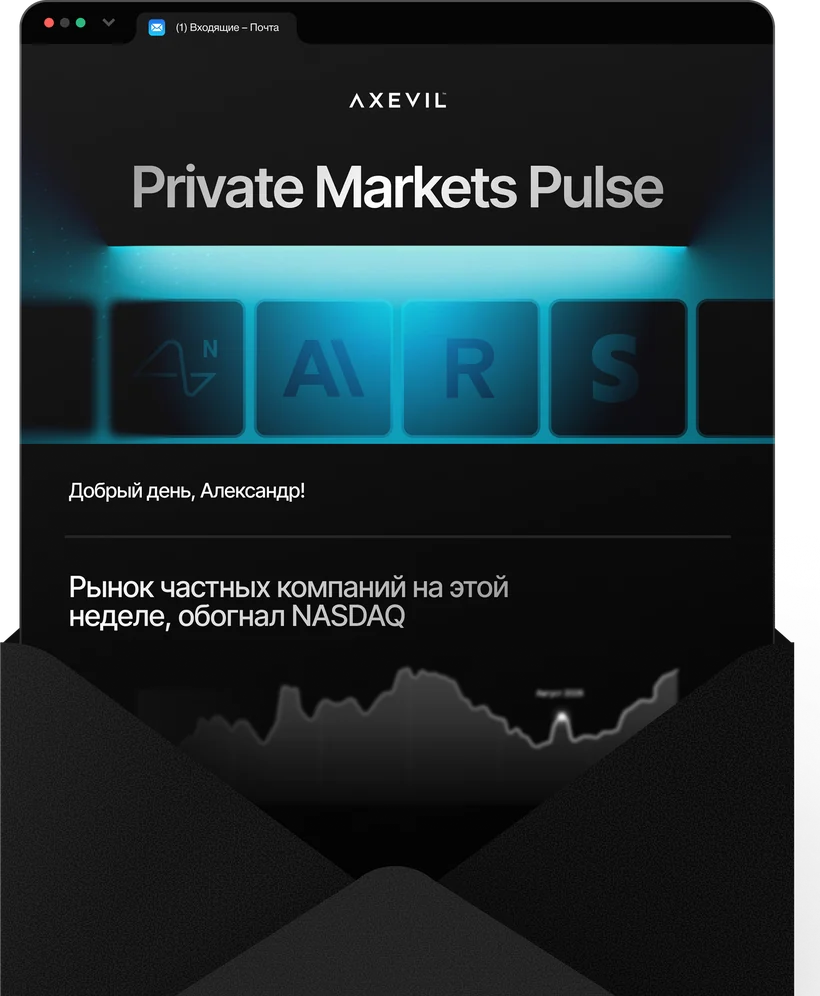
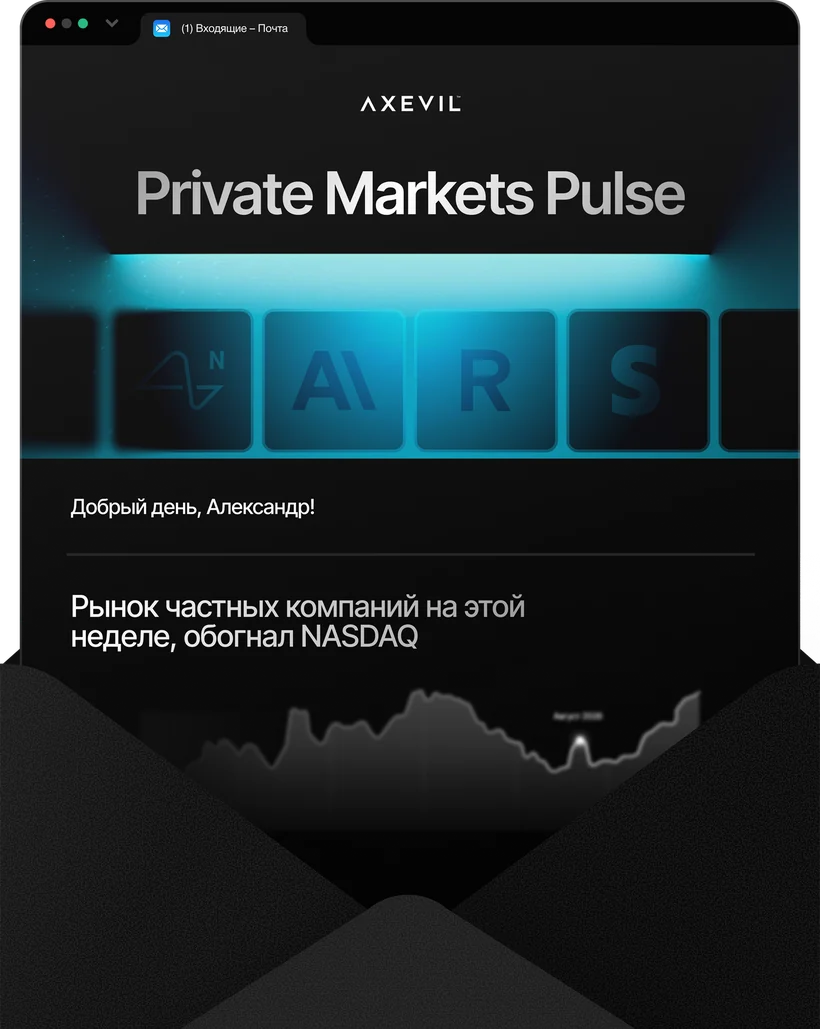
fix(axevil-newsletter): четыре правки по мобильной вёрстке
Правки Татьяны 2026-08-21.

1. Воздух под шапкой в первом экране. Было фиксированные 1.25rem, бейдж
   прилипал к меню. Отступ привязан к высоте экрана — тут сталкиваются два
   требования: нужен воздух и держится «первый экран без прокрутки» с 23 июля.
   На обычном телефоне выходит 35 px и форма кончается на 570 из 844; на
   320×568 ужимается до 24 px и форма укладывается в 566. Фиксированные 40 px
   на 320×568 вылезали за сгиб на 15 px.

2. Иллюстрация письма встала по центру. Мобильная картинка обрезалась по любой
   ненулевой альфе, а справа от окна в исходнике идёт слабое свечение шириной
   75 px, слева его нет — окно вставало левее центра экрана на 11 px. Теперь
   обрезка по видимому содержимому (альфа > 128), поля 16/16.

3. Иконки в «Кому полезен» вернулись в центр. Выравнивание сетки стояло инлайном
   и не знало брейкпоинтов: на телефоне карточка — обычный flex-столбец, там
   align-items управляет горизонталью, и `start` перебивал класс items-center.
   Текст спасал свой w-full, а иконка его не имеет — уезжала к левому краю на
   111 px. Свойства сетки вынесены в классы с префиксом sm:.
   Заодно иконки перестали плющиться: файлы не квадратные (248×219, 200×213,
   194×211), а размер задавался жёстким квадратом. Теперь задаётся высота.

4. Столбцы в «Карте заявок» разлиплись. Схема на телефоне сжимается до 140 px,
   justify-between нечего раздавать, и шесть полос по 18 px вставали вплотную —
   читались одним пятном. Добавлен минимальный зазор 6 px.
[…]

diff --git a/axevil-newsletter/src/pages/nl-sections/NLHero.tsx b/axevil-newsletter/src/pages/nl-sections/NLHero.tsx
@@ -96,8 +96,10 @@ const FADE = 'linear-gradient(to bottom, rgba(0,0,0,0) 0%, rgba(0,0,0,0.30) 45%,
  * Фон — вертикальный кусок того же точечного полотна: x 900..2400 из 3024. Правее в
  * исходнике яркий «вихрь», под текстом он бы мешал читать; левее точки почти гаснут.
  *
- * Иллюстрация — тот же мокап почтового клиента, соотношение 0.868, то есть портретное:
- * во всю ширину телефона он встаёт без обрезки. Конверт внизу срезан краем самой
+ * Иллюстрация — тот же мокап почтового клиента, обрезанный по видимому содержимому
+ * (альфа > 128). Обрезка именно по видимому, а не по любой ненулевой альфе: справа от
+ * окна в исходнике идёт слабое свечение шириной 75 px, слева его нет, и при обрезке по
+ * альфе > 6 окно вставало левее центра экрана на 11 px (Татьяна, 2026-08-21). Конверт внизу срезан краем самой
  * картинки, как и в макете, — стык гасит затемнение внизу секции.
  */
 const FADE_HEIGHT_M = '22%'
@@ -192,10 +194,13 @@ export default function NLHero() {
           on a tall phone and quietly shrinks on a short one instead of pushing the form
           below the fold. */}
       <div className="lg:hidden relative w-full flex flex-col items-center overflow-hidden"
-        // 1.25rem вместо 1.5: перенос перед «Каждую неделю» добавил подзаголовку
-        // четвёртую строку, и на iPhone SE (320×568) кнопка формы вылезала за экран на
-        // 3 px. Требование «первый экран без прокрутки» держится с 23 июля.
-        style={{ padding: '1.25rem 0 0' }}>
+        // Отступ от шапки: было фиксированные 1.25rem, бейдж прилипал к меню
+        // (Татьяна, 2026-08-21). Теперь он привязан к высоте экрана, потому что тут
+        // сталкиваются два требования. Нужен воздух — и держится требование «первый
+        // экран без прокрутки», с 23 июля. На обычном телефоне (844 svh) выходит 35 px
+        // и форма кончается на 574 из 844; на 320×568 ужимается до 24 px, и форма
+        // укладывается в 567 — фиксированные 40 px там вылезали за сгиб на 15 px.
+        style={{ padding: 'clamp(1.25rem, 4.2svh, 2.5rem) 0 0' }}>
 
         {/* Точечный фон — за текстом и за иллюстрацией, на всю высоту блока */}
         <img src={heroBgM} alt="" aria-hidden loading="eager"
@@ -258,7 +263,7 @@ export default function NLHero() {
           <motion.img
             src={heroIllM} alt="" aria-hidden loading="eager"
             className="block w-full pointer-events-none"
-            width={820} height={996}
+            width={820} height={1029}
             initial={{ opacity: 0 }} animate={{ opacity: 1 }}
             transition={{ duration: 0.9, delay: 0.3, ease: [0.4, 0, 0.2, 1] }}
           />

diff --git a/axevil-newsletter/src/pages/nl-sections/NLAudience.tsx b/axevil-newsletter/src/pages/nl-sections/NLAudience.tsx
@@ -97,15 +97,22 @@ export default function NLAudience() {
         >
           {CARDS.map((card) => (
             <div key={card.num}
-              className="flex flex-col items-center overflow-hidden rounded-[24px] min-w-0 sm:grid"
+              className="flex flex-col items-center overflow-hidden rounded-[24px] min-w-0 sm:grid sm:justify-items-center sm:items-start sm:content-start"
               style={{
                 background: 'var(--black-300)',
                 paddingTop: 24, paddingBottom: 24, paddingLeft: 20, paddingRight: 20,
                 gap: 12,
                 gridRow: 'span 5', gridTemplateRows: 'subgrid',
-                // alignItems: start — иначе короткий текст центрируется внутри своей строки
-                // сетки, и низ третьей карточки уезжал на 10 px относительно соседей.
-                justifyItems: 'center', alignItems: 'start', alignContent: 'start',
+                // Выравнивание сетки (justify-items / align-items / align-content) вынесено
+                // в классы с префиксом sm: и раньше стояло здесь инлайном. Инлайн не знает
+                // брейкпоинтов и действовал в том числе на телефоне, где карточка — обычный
+                // flex-столбец: там align-items управляет поперечной осью, то есть
+                // горизонталью, и `start` перебивал класс items-center. Всё, что шире
+                // содержимого, спасал свой w-full, а иконка его не имеет — она и уезжала
+                // к левому краю (Татьяна, 2026-08-21).
+                //
+                // Само `items-start` на десктопе нужно: иначе короткий текст центрируется
+                // внутри своей строки сетки, и низ третьей карточки уезжал на 10 px.
               }}
             >
               {/* Number — centered */}
@@ -115,8 +122,11 @@ export default function NLAudience() {
               </p>
 
               {/* Icon */}
-              <img src={card.icon} alt="" loading="lazy" className="shrink-0 block"
-                style={{ width: 'clamp(88px, 8.3vw, 120px)', height: 'clamp(88px, 8.3vw, 120px)', marginBottom: 20 }} />
+              {/* Размер задаётся высотой, ширина считается сама: файлы иконок не квадратные
+                  (248×219, 200×213, 194×211), и прежний жёсткий квадрат сплющивал каждую
+                  по-своему — первую на 13% по ширине, остальные растягивал. */}
+              <img src={card.icon} alt="" loading="lazy" className="shrink-0 block w-auto"
+                style={{ height: 'clamp(88px, 8.3vw, 120px)', marginBottom: 20 }} />
 
               {/* Role → the job it does → how it is delivered */}
                 <h3 className="font-inter-tight font-semibold text-white text-center whitespace-pre-line w-full"

diff --git a/axevil-newsletter/src/pages/nl-sections/NLSectionMock.tsx b/axevil-newsletter/src/pages/nl-sections/NLSectionMock.tsx
@@ -87,7 +87,11 @@ function SectorsMock() {
     // justify-between растягивает шесть строк на всю высоту плашки: раньше они жались к
     // середине, а сверху и снизу оставалась пустота. px-2 отодвигает подписи от края,
     // py-4 не даёт крайним строкам прилипать к верхней и нижней границе плашки.
-    <div className="flex flex-col justify-between h-full w-full px-2 py-4">
+    // gap-1.5 — минимальный зазор между полосами. justify-between раздаёт только тот
+    // запас, который остался: на телефоне схема сжимается до 140 px, запаса нет, и шесть
+    // полос по 18 px вставали вплотную — читались как одно пятно (Татьяна, 2026-08-21).
+    // На десктопе места больше, и justify-between по-прежнему разносит строки шире зазора.
+    <div className="flex flex-col justify-between gap-1.5 h-full w-full px-2 py-4">
       {rows.map(([name, w]) => (
         <div key={name} className="group flex items-center gap-3 w-full">
           <span className="shrink-0 truncate"
@@ -97,11 +101,18 @@ function SectorsMock() {
             style={{ width: 'clamp(7.5rem, 30%, 13rem)', fontSize: 'clamp(0.75rem, 0.9vw, 0.9375rem)', color: 'var(--white-400)' }}>
             {name}
           </span>
-          <span
-            className="block rounded-full bg-white/20 transition-colors duration-200 group-hover:bg-white"
-            style={{ width: w, height: 18 }}
-            aria-hidden
-          />
+          {/* Дорожка нужна, чтобы проценты считались от свободного места, а не от всей
+              строки. Раньше полоса лежала прямо во flex-строке рядом с подписью, и её
+              ширина в процентах бралась от полной ширины строки: 86% не помещались и
+              полоса ужималась до доступного, 64% почти дотягивались туда же — две верхние
+              строки рисовались одинаковой длины, и распределение читалось неверно. */}
+          <span className="flex-1 min-w-0">
+            <span
+              className="block rounded-full bg-white/20 transition-colors duration-200 group-hover:bg-white"
+              style={{ width: w, height: 18 }}
+              aria-hidden
+            />
+          </span>
         </div>
       ))}
     </div>
